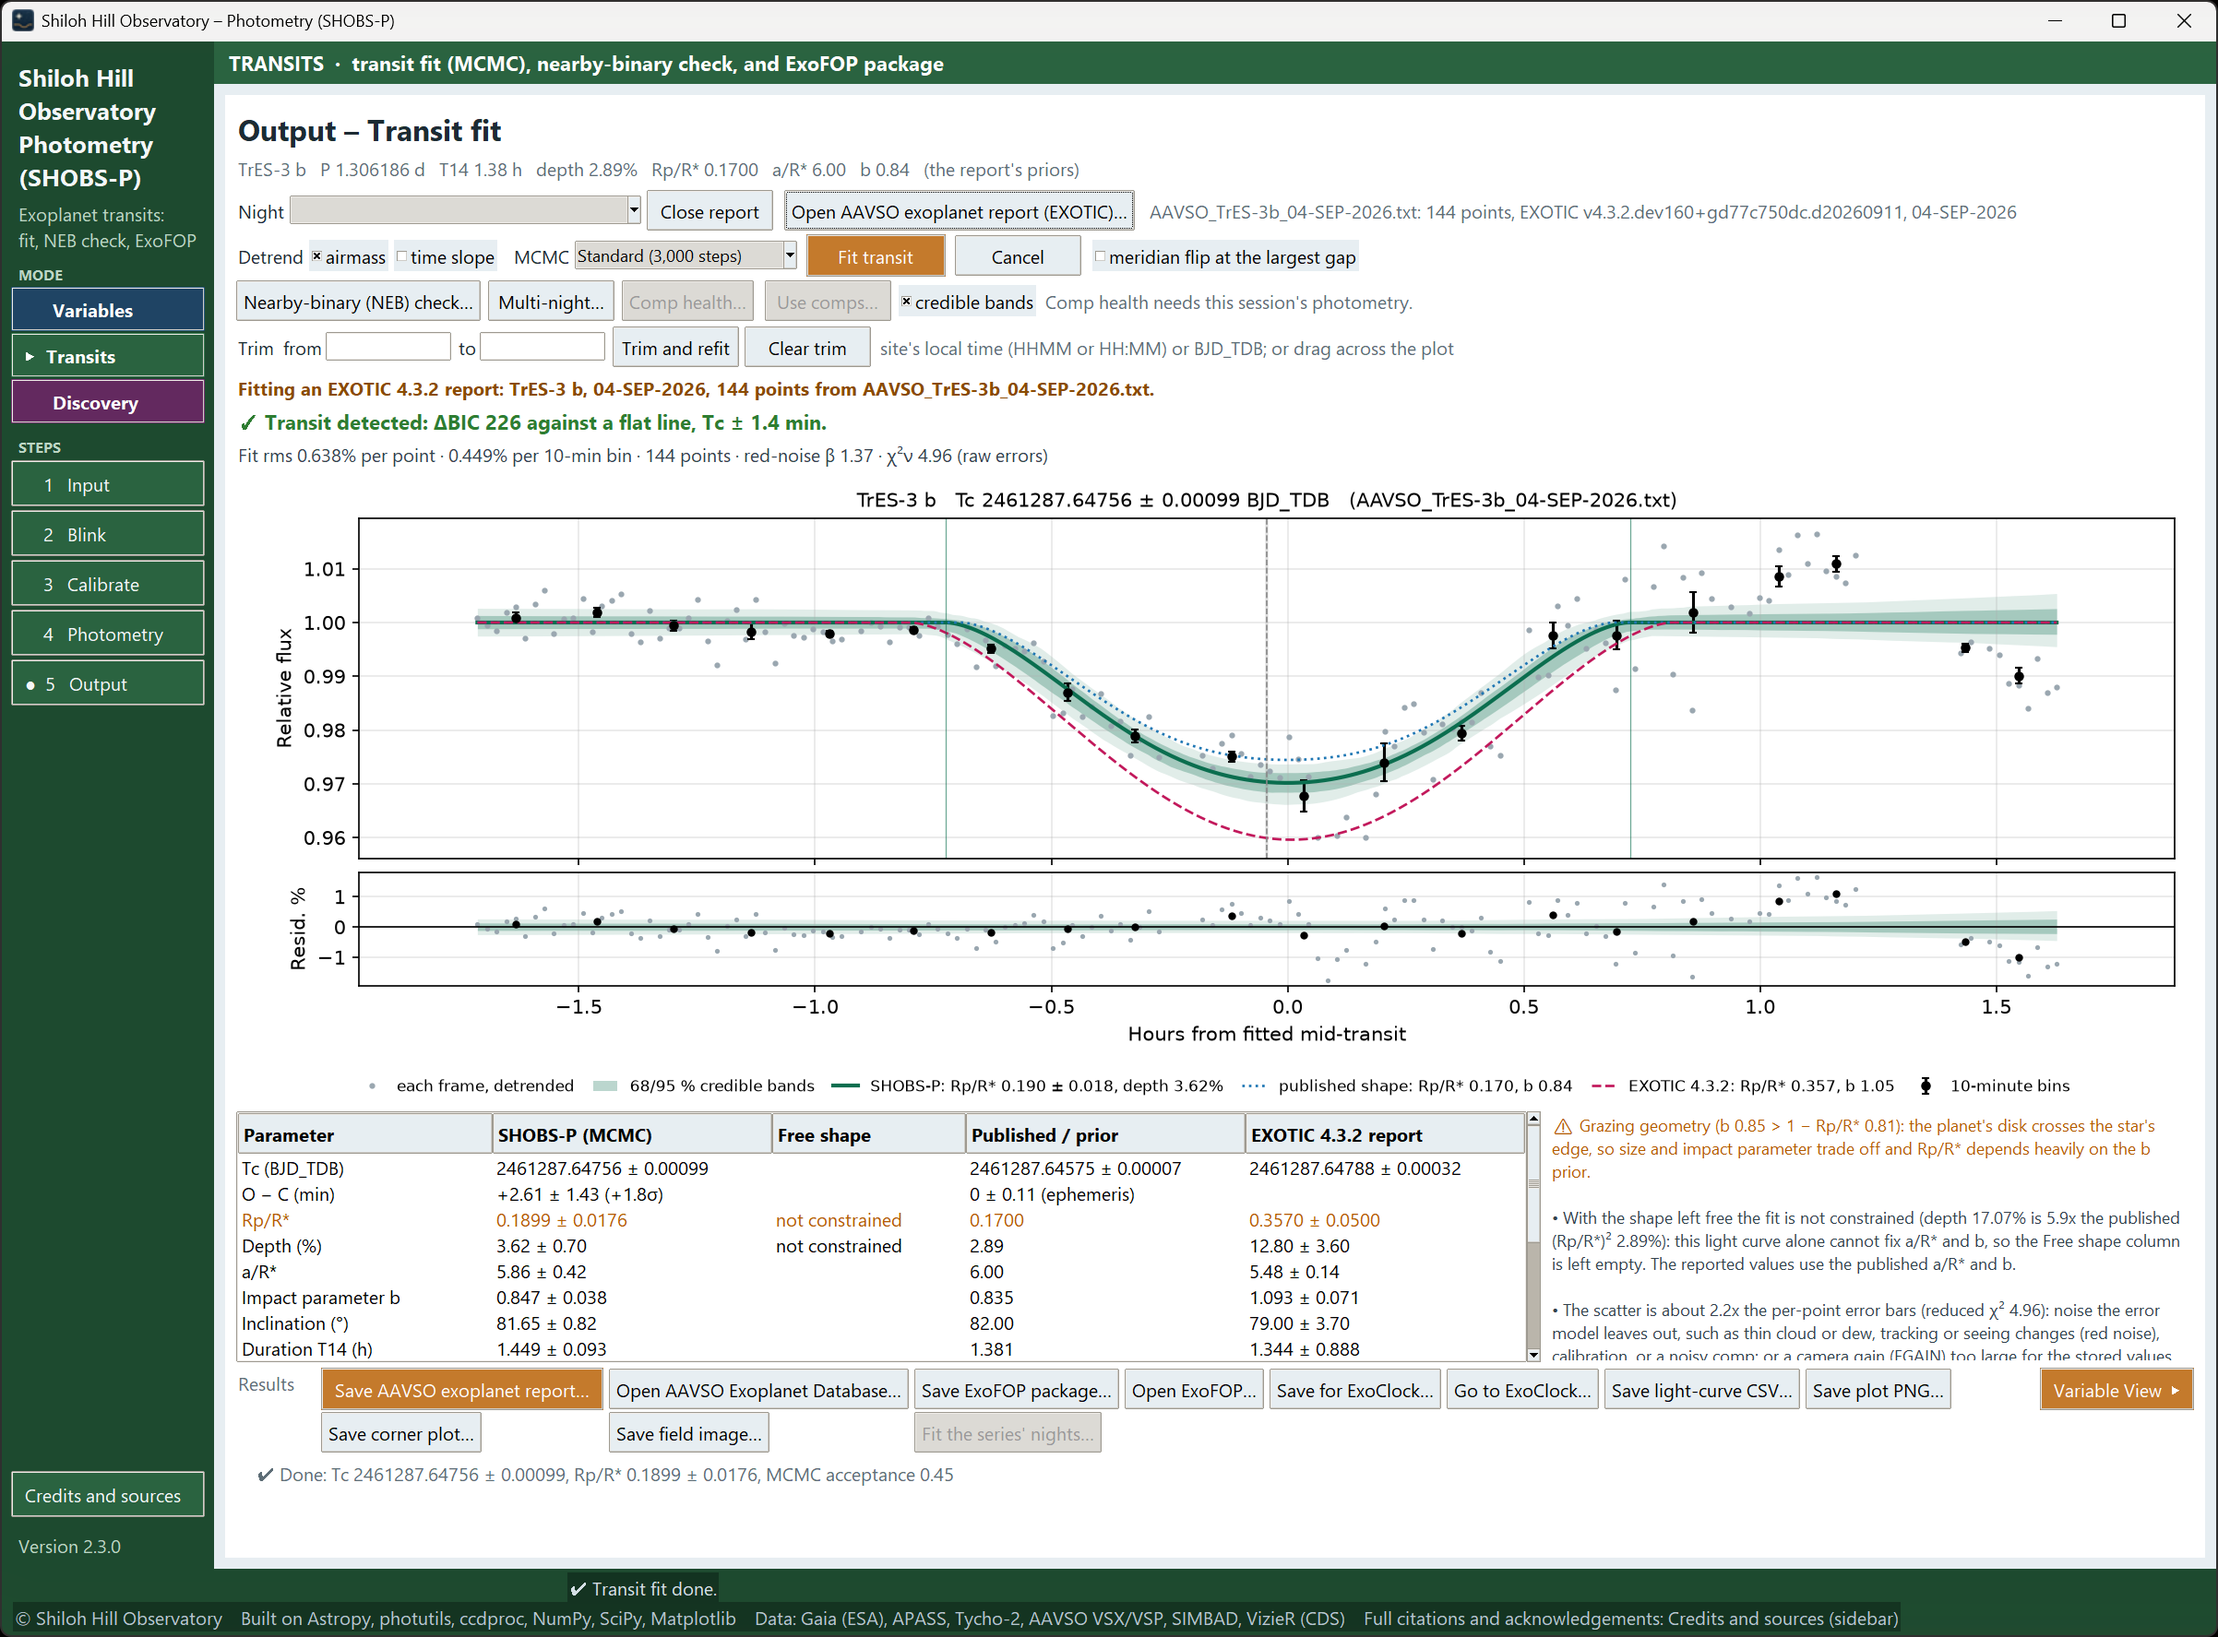
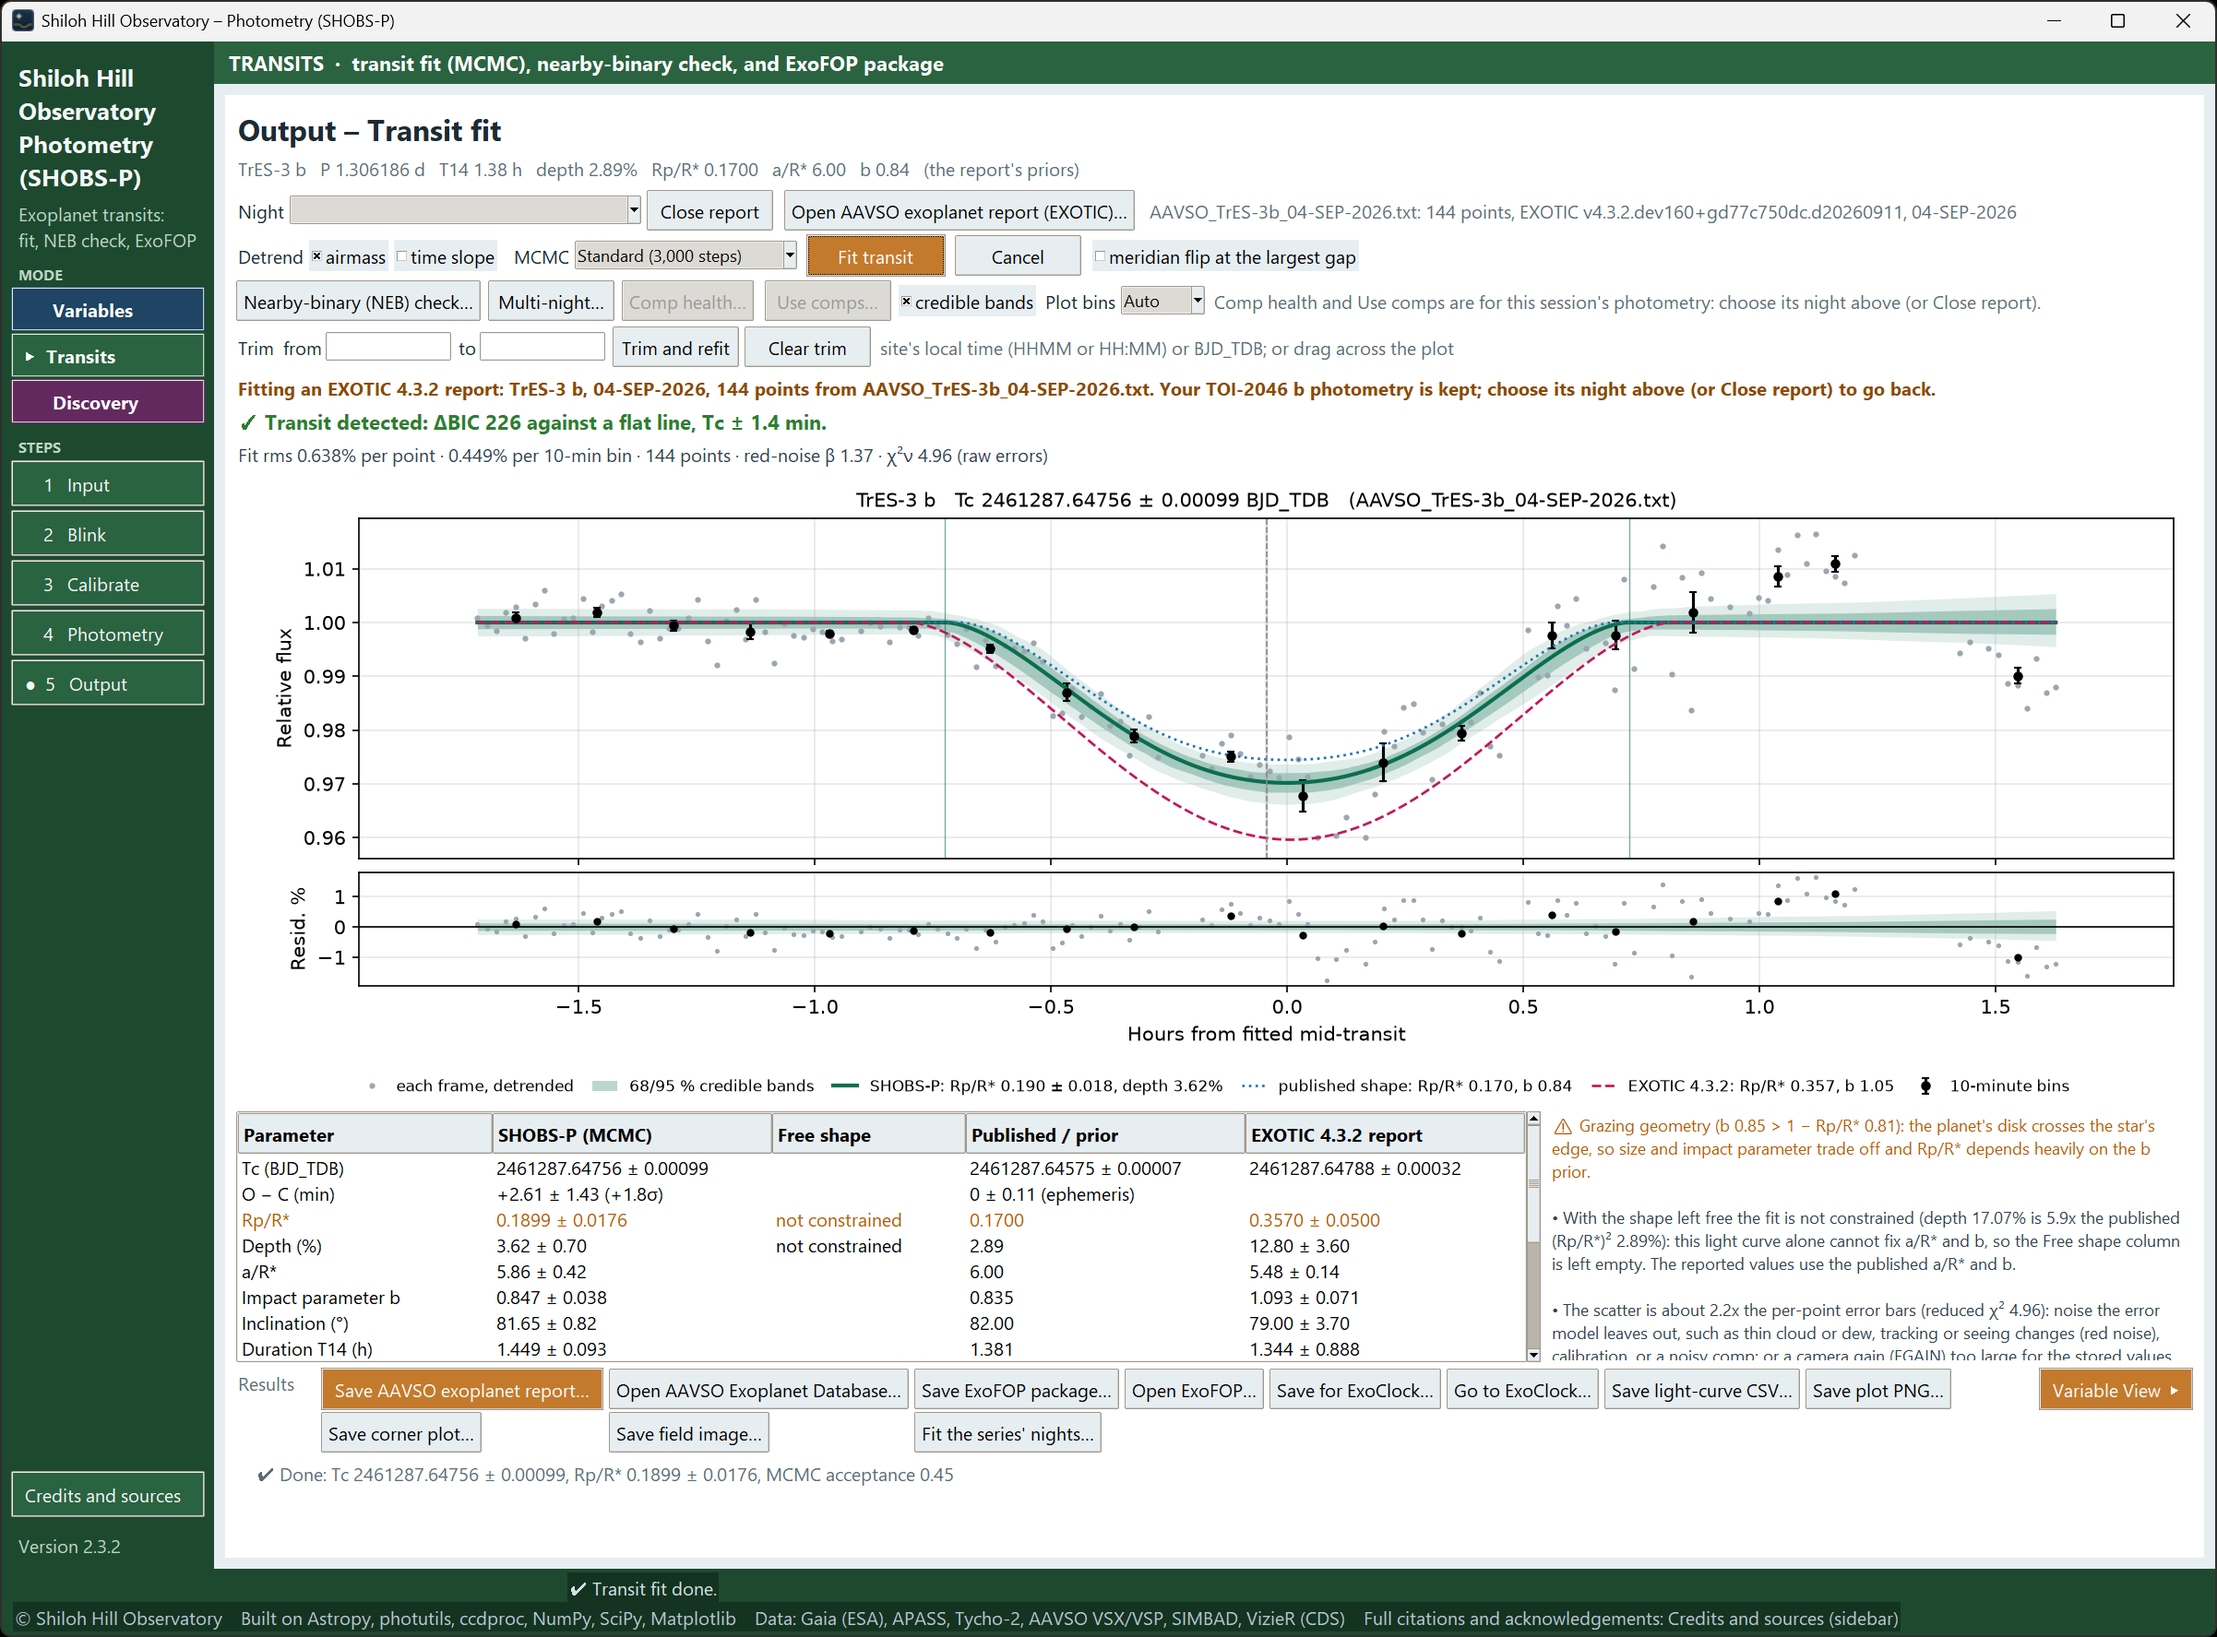
2.3.2 manual: 7 screenshots retaken on 2.3.2 (example site)
Claude-Session: https://claude.ai/code/session_01FUz9tGsb56VRMUZwbtLD3c

diff --git a/docs/manual/README.md b/docs/manual/README.md
@@ -16,7 +16,8 @@ warning for comps and the check only, with a better check star) and for 2.3.2 (a
 is asked about before it is saved; the transit fit waits for Fit transit; Plot bins; the Free shape check per
 parameter; pier sides within 10°; Calibrate runs the Scan folders checks; a roomier Photometry image; the Mac app from
 Create shortcut.command), checked against the program. Screenshots were retaken on 2.3.0
-> wherever the page or its version line changed.
+> wherever the page or its version line changed, and on 2.3.2 for the pages 2.3.2 changed (the Photometry page, the
+> Transit fit page and the WebObs offer).
 > Each chapter is its own file in this folder; this page is the table of contents.
 
 ## Part 1 — Getting to know SHOBS-P
